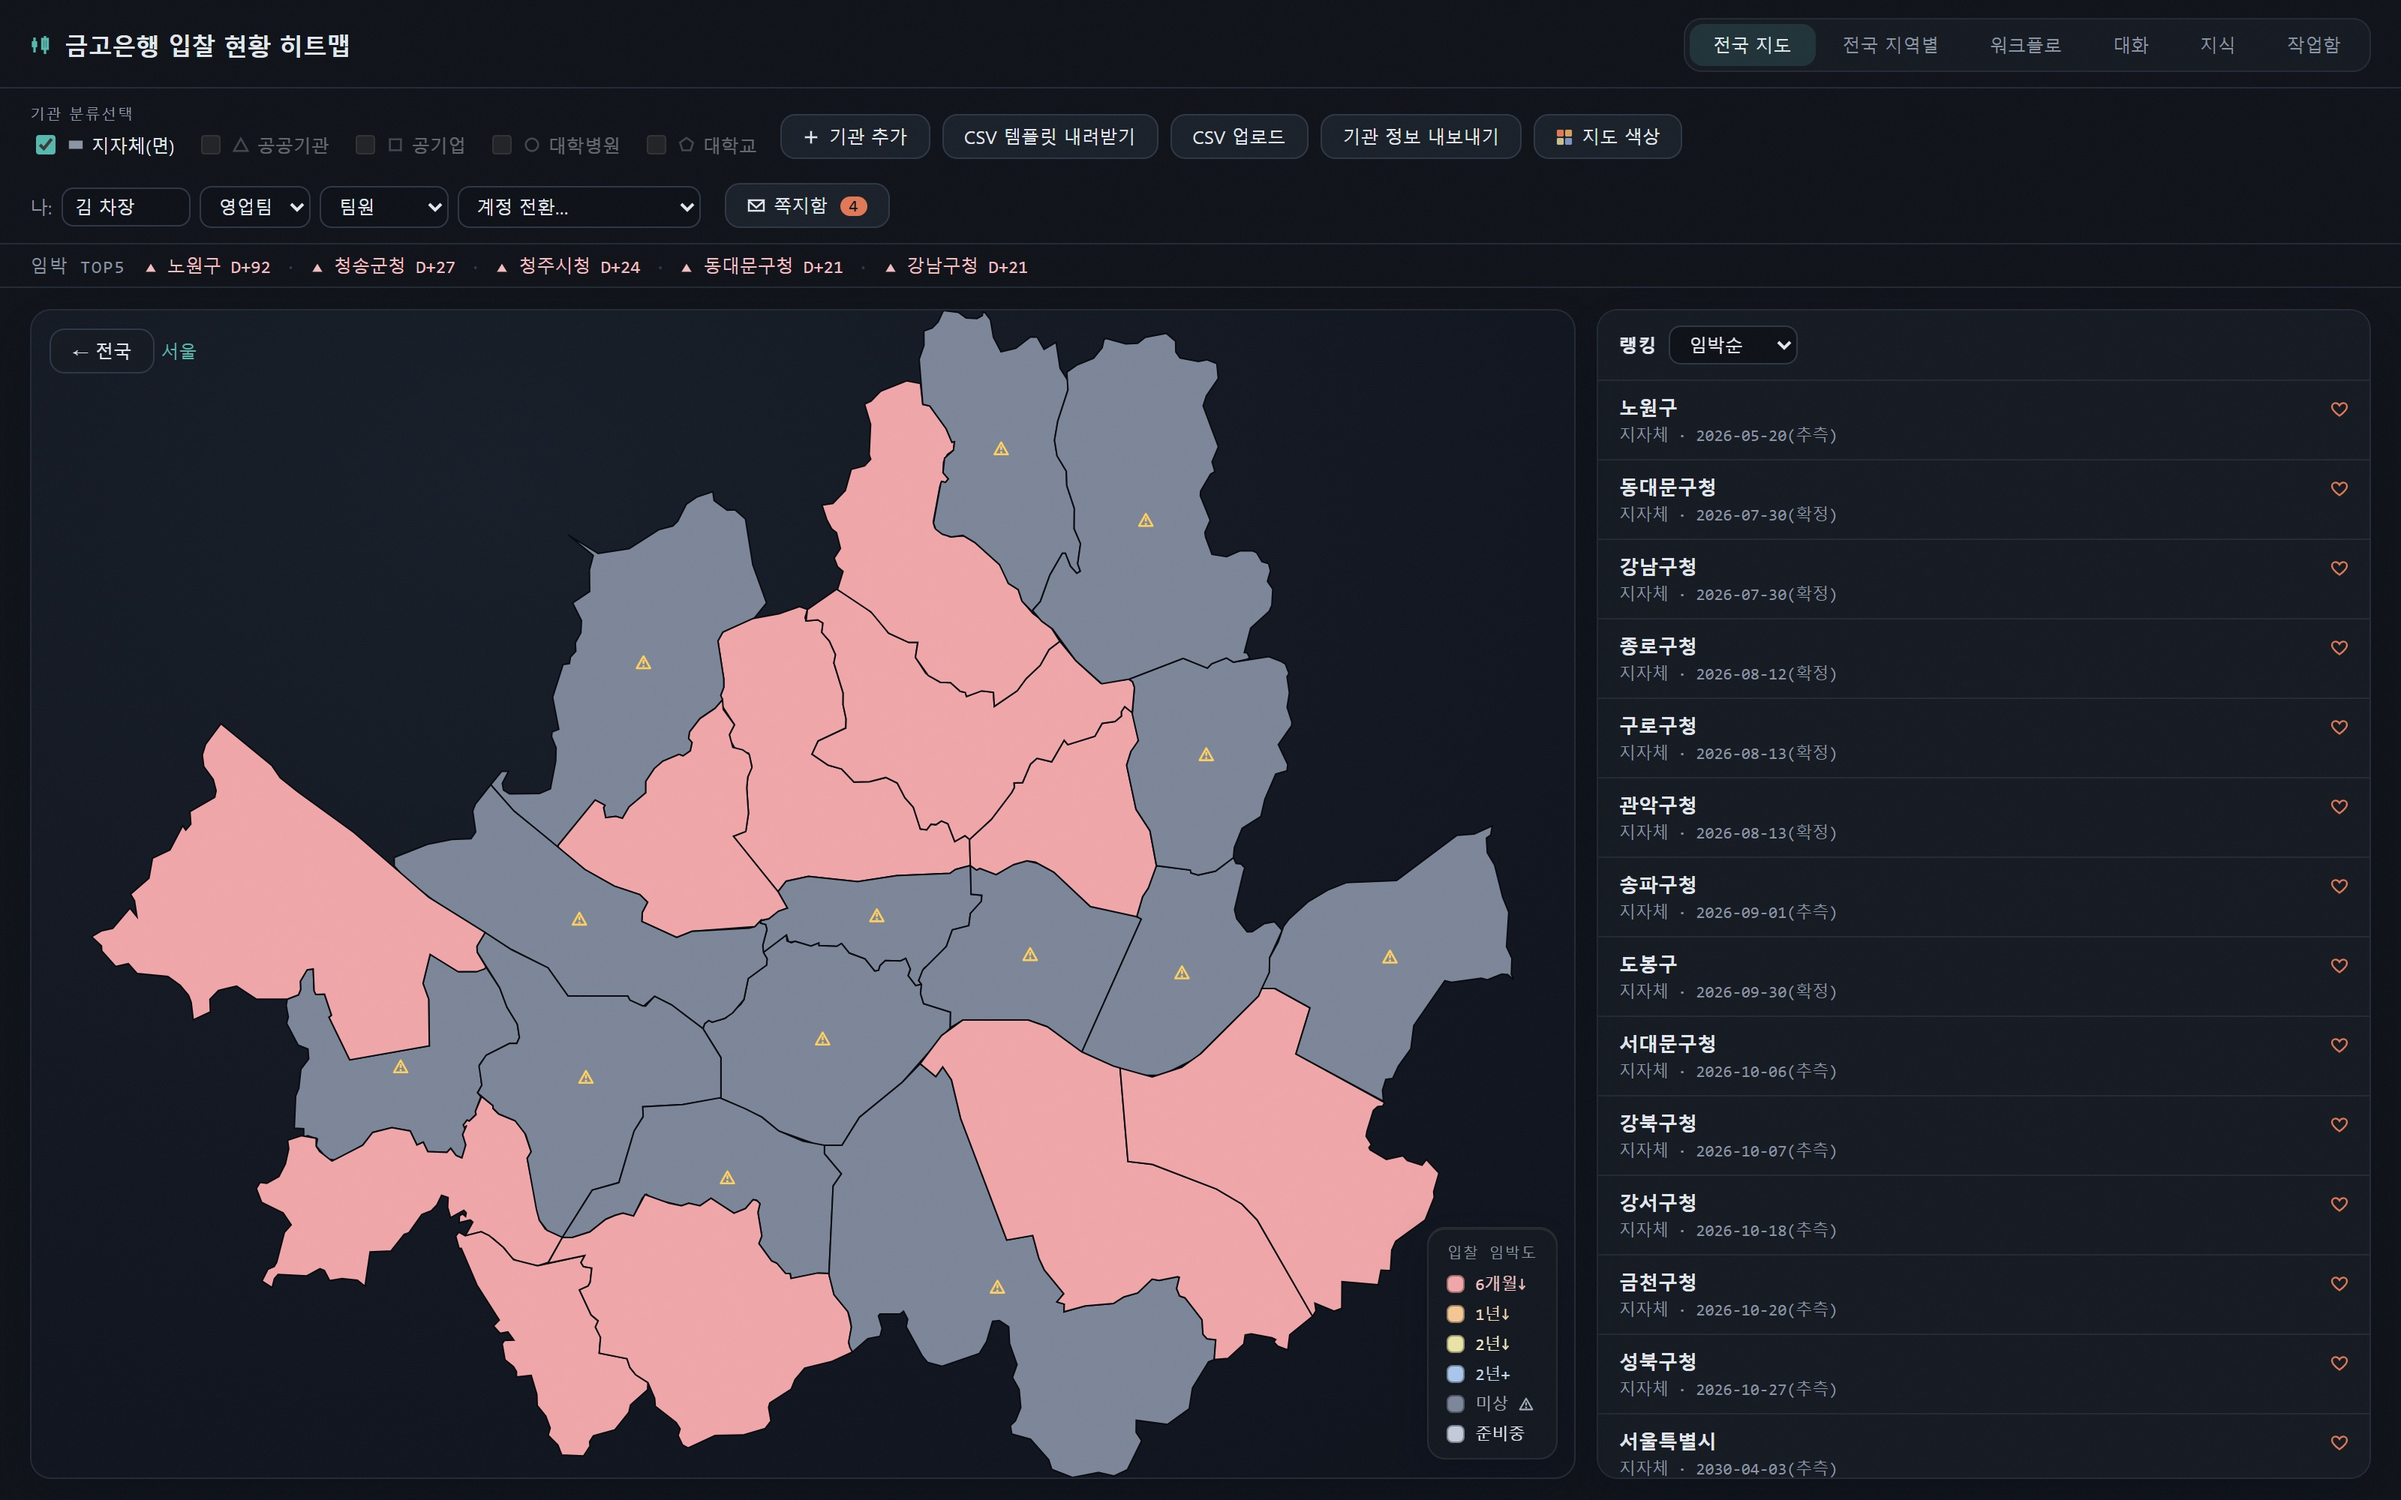
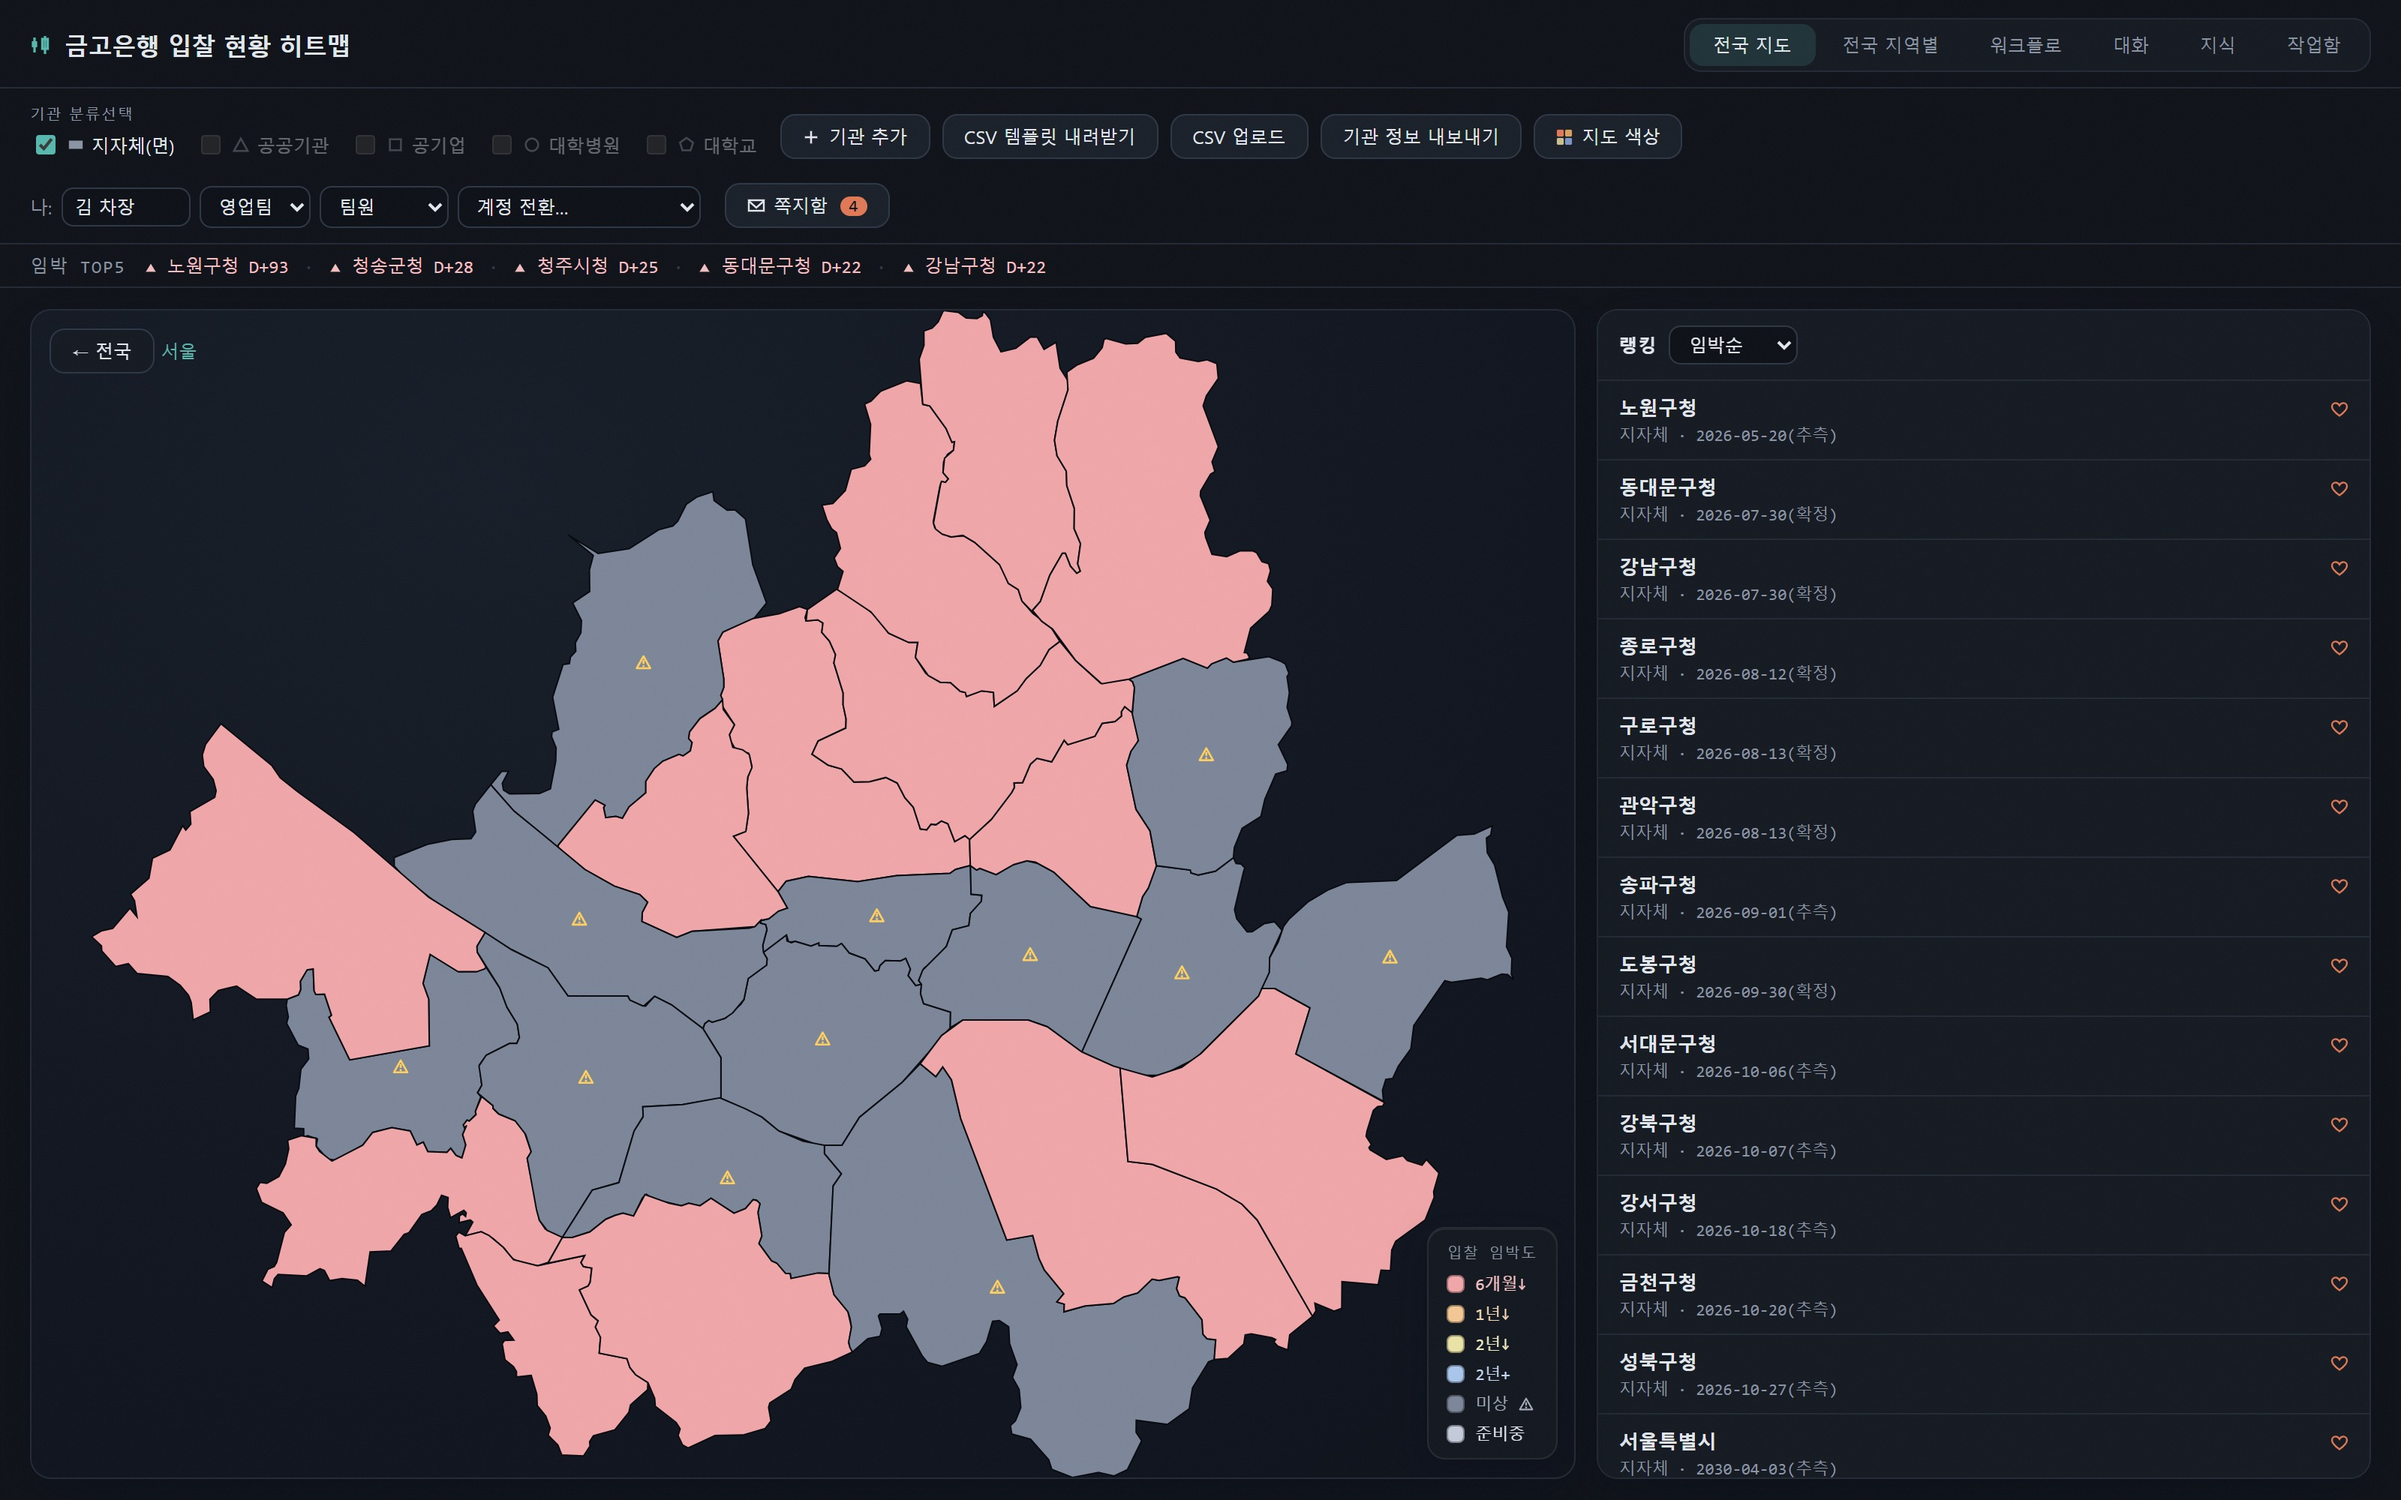
fix(dashboard): 서울 25개 구가 카드 두 장으로 뜨던 병합 불일치 해소
사용자 지적("강동구청/강동구 중복"). 원인은 데이터가 아니라 **병합 키**였다.

- 지도 번들(dashboard/data/institutions.js:400)은 서울을 `gu + '청'` = `강동구청`으로,
  서버 registry(backend/repository.py GIGANLIST_DISTRICT_NAMES)는 `강동구`로 부른다.
- serverdata.mergeUnion이 **원본 이름 문자열**로 맞추다 보니 25개 구가 전부 어긋나,
  서버 행이 별도 레코드로 붙었다 — 서울 랭킹 카드 26 → 51.
- 정작 지도의 municipalityForFeature는 이미 logic.normalizeMuniName(끝의 '청'을
  벗긴다)으로 둘을 같은 구로 보고 있었다. 병합만 그 기준을 안 쓰고 있었다.

mergeUnion을 normalizeMuniName 기준으로 바꿨다(사용자 확정 ⓐ안). 경기 블록의
`name + '청'`(:605)도 같은 문제였고 함께 해결된다. 병합 시 **이름은 번들 것을
유지**하도록 명시했다 — 서버 필드로 덮으면 표기가 `강동구청`에서 `강동구`로 조용히
바뀐다.

⚠ 중복 제거보다 큰 변화가 딸려 왔다. 서울 25개 구는 여태 병합이 안 돼서
**서버·공고 데이터를 한 번도 못 받고 있었다.** 이제 받는다:
- 랭킹 목록이 전부 '미상'이던 것에서 실제 날짜로 바뀐다(2026-07-30(확정) 등).
  임박순 정렬이 비로소 의미를 갖는다.
- 지도 면 색이 2곳 바뀐다 — 도봉구·노원구가 회색(미상) → 빨강(공고일 2026-09-30·
  2026-05-20이 실렸다). 나머지 23곳은 그대로. 색이 틀렸다가 맞아진 게 아니라
  **없던 정보가 이제 지도에 도달한 것**이다.

테스트 node 257 → 262.
- serverdata.test.js 4건 — 구청/구 병합, 이름은 번들 것 유지, 서버 전용 기관,
  그리고 **다른 구끼리는 안 합쳐진다**('청'을 벗기는 정규화가 지나치지 않은지).
- institutions_data.test.js 1건 — 이 병합은 이름만 보므로 "서울 구 이름이 다른
  지역과 겹치지 않는다"는 전제에 기댄다. 그 전제를 고정한다(깨지면 지역까지
  보는 키로 바꿔야 한다). 작성 중 region '11'에 광역 레코드 '서울특별시'가
  하나 더 있음을 발견해 subRegion 유무로 구 단위만 세도록 했다.
- pytest 759 passed(기준선 유지).

포트폴리오 캡처 14장 전면 재촬영. 02(서울 지역뷰)·14(기관편집)는 랭킹 목록이
바뀌었고, 나머지도 상단 임박 티커의 '노원구'가 '노원구청'으로 바뀌어 전부 낡았다.
같은 조건(Playwright + msedge, 1600×1000 / DSF 2) + JPEG q92, 6.31 → 6.69MB.
PART 4 리포트 4장은 정적 파일이라 그대로 둔다.

실측: 서울 랭킹 카드 51 → 26(25개 구 + 서울특별시), 정규화 후 중복 이름 0,
[…]

Changed region(s): [[0.375, 0.155, 0.5312, 0.465], [0.2188, 0.155, 0.3438, 0.186], [0.0938, 0.155, 0.1875, 0.186]]

diff --git a/dashboard/test/serverdata.test.js b/dashboard/test/serverdata.test.js
@@ -124,3 +124,49 @@ test('applyBidCases: 빈 입력도 안전하고 원본을 변형하지 않는다
   sd.applyBidCases([rec], BIDCASES);
   assert.strictEqual(rec.contractEnd, '2026-01-01');      // 원본 불변
 });
+
+// ── 번들·서버의 이름 표기 차이 (2026-08-21) ─────────────────────────────
+// 지도 번들은 서울·경기를 `OO구청`/`OO시청`으로 부르고 서버 registry는 `OO구`로
+// 부른다. 원본 문자열로 맞추던 시절에는 25개 구가 전부 어긋나 **같은 구가 카드
+// 두 장**으로 떴다(서울 지자체 25 → 50). 지도의 municipalityForFeature는 이미
+// logic.normalizeMuniName으로 둘을 같은 구로 보고 있었으므로, 병합도 같은 기준을 쓴다.
+
+test("mergeUnion: '구청'과 '구'는 같은 기관이다 — 카드가 두 장이 되지 않는다", function () {
+  const bundle = [{ name: '강동구청', region: '11', subRegion: '11250', term: 4, sources: ['번들'] }];
+  const server = [{ institution_id: 'gangdong', name_ko: '강동구', region_code: '11',
+                    type: '지자체', contract_end: '2026-12-31', stage: 3 }];
+  const out = sd.mergeUnion(bundle, server);
+
+  assert.strictEqual(out.length, 1);                       // 예전에는 2였다
+  assert.strictEqual(out[0].institutionId, 'gangdong');    // 서버 필드가 실렸고
+  assert.strictEqual(out[0].contractEnd, '2026-12-31');
+  assert.strictEqual(out[0].subRegion, '11250');           // 번들 전용 필드도 남았다
+});
+
+test('mergeUnion: 병합해도 화면에 남는 이름은 번들 것이다', function () {
+  // 서버 이름으로 덮으면 표기가 `강동구청` → `강동구`로 조용히 바뀐다.
+  // 이름의 진실은 지도 번들 쪽이라는 것이 사용자 확정(ⓐ안)이다.
+  const out = sd.mergeUnion(
+    [{ name: '강동구청', region: '11' }],
+    [{ institution_id: 'gangdong', name_ko: '강동구', region_code: '11' }]);
+  assert.strictEqual(out[0].name, '강동구청');
+});
+
+test('mergeUnion: 서버에만 있는 기관은 서버 이름 그대로 붙는다', function () {
+  const out = sd.mergeUnion(
+    [{ name: '강동구청', region: '11' }],
+    [{ institution_id: 'gangdong', name_ko: '강동구' },
+     { institution_id: 'jung', name_ko: '중구' }]);
+  assert.strictEqual(out.length, 2);
+  assert.strictEqual(out[1].name, '중구');
+});
+
+test('mergeUnion: 서로 다른 구는 여전히 따로 남는다', function () {
+  // '청'을 벗기는 정규화가 지나쳐서 엉뚱한 것끼리 합쳐지지 않는지 본다.
+  const out = sd.mergeUnion(
+    [{ name: '강동구청', region: '11' }, { name: '강서구청', region: '11' }],
+    [{ institution_id: 'gangdong', name_ko: '강동구' }]);
+  assert.strictEqual(out.length, 2);
+  assert.strictEqual(out[1].name, '강서구청');
+  assert.strictEqual(out[1].institutionId, undefined);   // 안 합쳐졌다
+});

diff --git a/dashboard/js/serverdata.js b/dashboard/js/serverdata.js
@@ -2,6 +2,8 @@
   'use strict';
   // 서버 registry ↔ 대시보드 레코드 변환·병합 (계획 B). 순수 함수만 — fetch는 app.js.
   const serverdata = {};
+  // 병합 키에 쓸 이름 정규화를 logic과 공유한다(designer.js와 같은 require 패턴).
+  const logic = (typeof require !== 'undefined') ? require('./logic.js') : root.logic;
   const FIELD_MAP = {
     institution_id: 'institutionId', name_ko: 'name', region_code: 'region',
     type: 'type', contract_end: 'contractEnd', last_bid: 'lastBid',
@@ -38,18 +40,32 @@
 
   // union 병합: 서버가 authoritative store지만, 지도의 번들 전용 데이터(좌표·출처 등)와
   // 서버 미등록 기관을 지우면 안 된다 — 서버 필드만 덮고 나머지는 남긴다.
+  // 매칭은 **정규화된 이름**으로 한다. 지도 번들은 서울·경기를 `OO구청`/`OO시청`으로
+  // 부르고 서버 registry는 `OO구`로 부르는데, 원본 문자열로 맞추면 25개 구가 전부
+  // 어긋나 **같은 구가 카드 두 장**으로 떴다(서울 지자체 25 → 50). 지도 쪽
+  // municipalityForFeature는 이미 normalizeMuniName으로 둘을 같은 구로 보고 있었다 —
+  // 병합만 그 기준을 안 쓰고 있던 것이다.
+  // ⚠ 이름만으로 맞추므로 **같은 이름이 지역을 넘어 존재하면 엉뚱하게 합쳐진다.**
+  //    지금 번들에서 구 단위는 서울뿐이고(다른 지역은 시/군) 서버 25개 이름 중
+  //    번들에 두 번 이상 나오는 것은 없다 — 아래 테스트가 그 전제를 고정한다.
+  function mergeKey(name) {
+    return logic.normalizeMuniName(name);
+  }
+
   serverdata.mergeUnion = function (bundle, serverRows) {
     const byName = {};
-    serverRows.forEach(function (r) { byName[r.name_ko] = serverdata.mapServerRow(r); });
+    serverRows.forEach(function (r) { byName[mergeKey(r.name_ko)] = serverdata.mapServerRow(r); });
     const seen = {};
     const out = bundle.map(function (b) {
-      const s = byName[b.name];
+      const s = byName[mergeKey(b.name)];
       if (!s) return b;
-      seen[b.name] = true;
-      return Object.assign({}, b, s);
+      seen[mergeKey(b.name)] = true;
+      // 번들 이름을 남긴다 — 서버 필드로 덮으면 화면 표기가 `강동구청`에서
+      // `강동구`로 조용히 바뀐다. 이름의 진실은 지도 번들 쪽이다(사용자 확정 ⓐ안).
+      return Object.assign({}, b, s, { name: b.name });
     });
     serverRows.forEach(function (r) {
-      if (!seen[r.name_ko]) out.push(serverdata.mapServerRow(r));
+      if (!seen[mergeKey(r.name_ko)]) out.push(serverdata.mapServerRow(r));
     });
     return out;
   };

diff --git a/dashboard/test/institutions_data.test.js b/dashboard/test/institutions_data.test.js
@@ -307,3 +307,26 @@ test('CSV 왕복으로 값이 보존된다 (반입 경로와 형식이 같다)',
     assert.strictEqual(back[i].sources.length, r.sources.length);
   });
 });
+
+// ── 서버 병합의 전제: 정규화한 이름이 지역을 넘어 겹치지 않는다 (2026-08-21) ──
+// serverdata.mergeUnion은 logic.normalizeMuniName('청'을 벗긴 이름)만으로 서버 행과
+// 번들 행을 맞춘다. 지역을 보지 않으므로, 같은 이름이 서로 다른 지역에 생기면
+// **엉뚱한 지역끼리 합쳐진다**(예: 서버의 서울 '중구'가 다른 광역시 '중구'와).
+// 지금은 번들의 구 단위가 서울뿐이라 성립하는 전제다 — 깨지는 순간 여기서 잡는다.
+test('병합 전제: 서울 25개 구 이름은 다른 지역과 겹치지 않는다', function () {
+  // region '11'에는 광역 레코드 '서울특별시'도 있다(subRegion 없음) — 구 단위만 본다.
+  const seoulMuni = institutions.filter(function (r) {
+    return r.type === '지자체' && r.region === '11' && r.subRegion;
+  });
+  const seoulKeys = new Set(seoulMuni.map(function (r) { return logic.normalizeMuniName(r.name); }));
+  assert.strictEqual(seoulKeys.size, 25, '서울 지자체는 25개 구여야 한다');
+
+  const collisions = institutions.filter(function (r) {
+    return r.type === '지자체' && r.region !== '11' &&
+           seoulKeys.has(logic.normalizeMuniName(r.name));
+  }).map(function (r) { return r.name + '(' + r.region + ')'; });
+
+  assert.deepStrictEqual(collisions, [],
+    '서울 구 이름과 같은 지자체가 다른 지역에 생겼다 — mergeUnion이 이름만 보므로 ' +
+    '지역까지 보는 키로 바꿔야 한다');
+});
